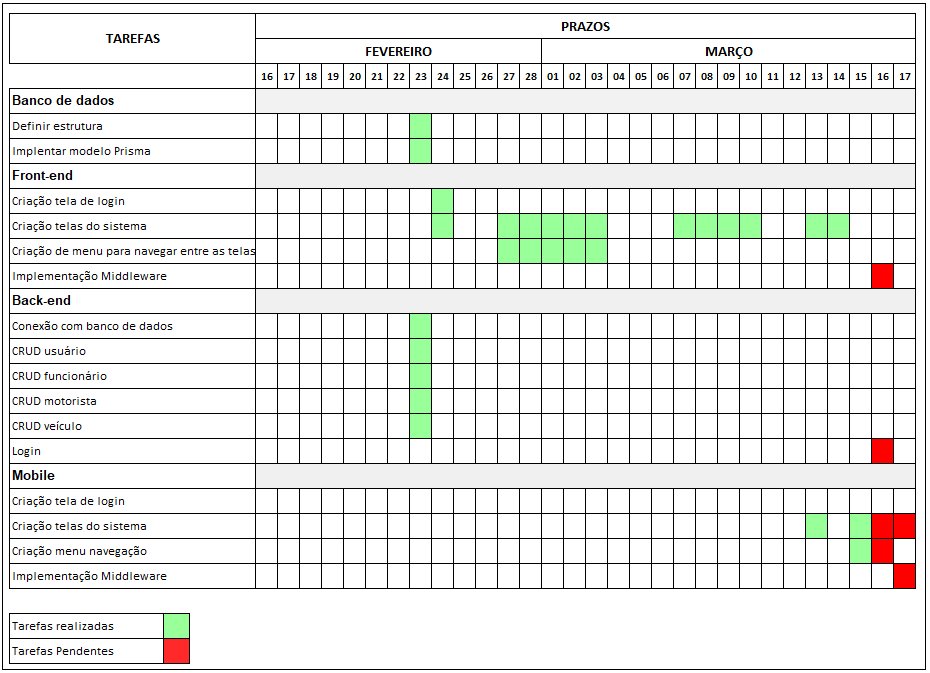
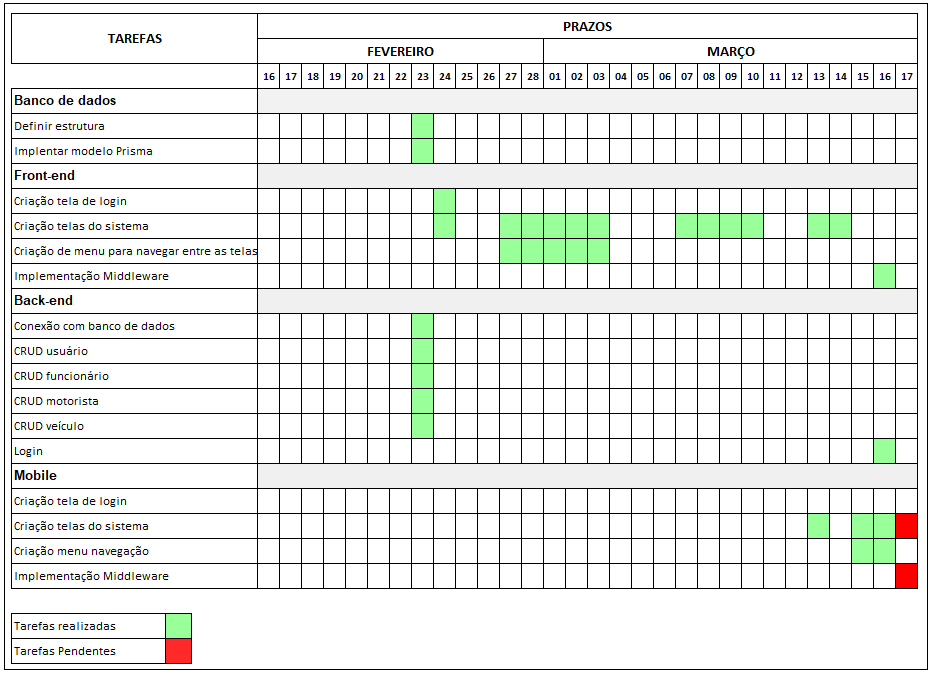
16-03-2023

diff --git a/PROJ AGROTECH/backend/src/routes/routes.js b/PROJ AGROTECH/backend/src/routes/routes.js
@@ -9,9 +9,9 @@ const Alocacao = require('../controller/alocacao.js')
 const Login = require('../controller/login.js')
 const ValidaAcesso = require('../middleware/middleware')
 
-router.post('*', ValidaAcesso)
-router.put('*', ValidaAcesso)
-router.delete('*', ValidaAcesso)
+// router.post('*', ValidaAcesso)
+// router.put('*', ValidaAcesso)
+// router.delete('*', ValidaAcesso)
 
 router.get('/motorista', Motorista.read);
 router.get('/veiculo', Veiculo.read);
